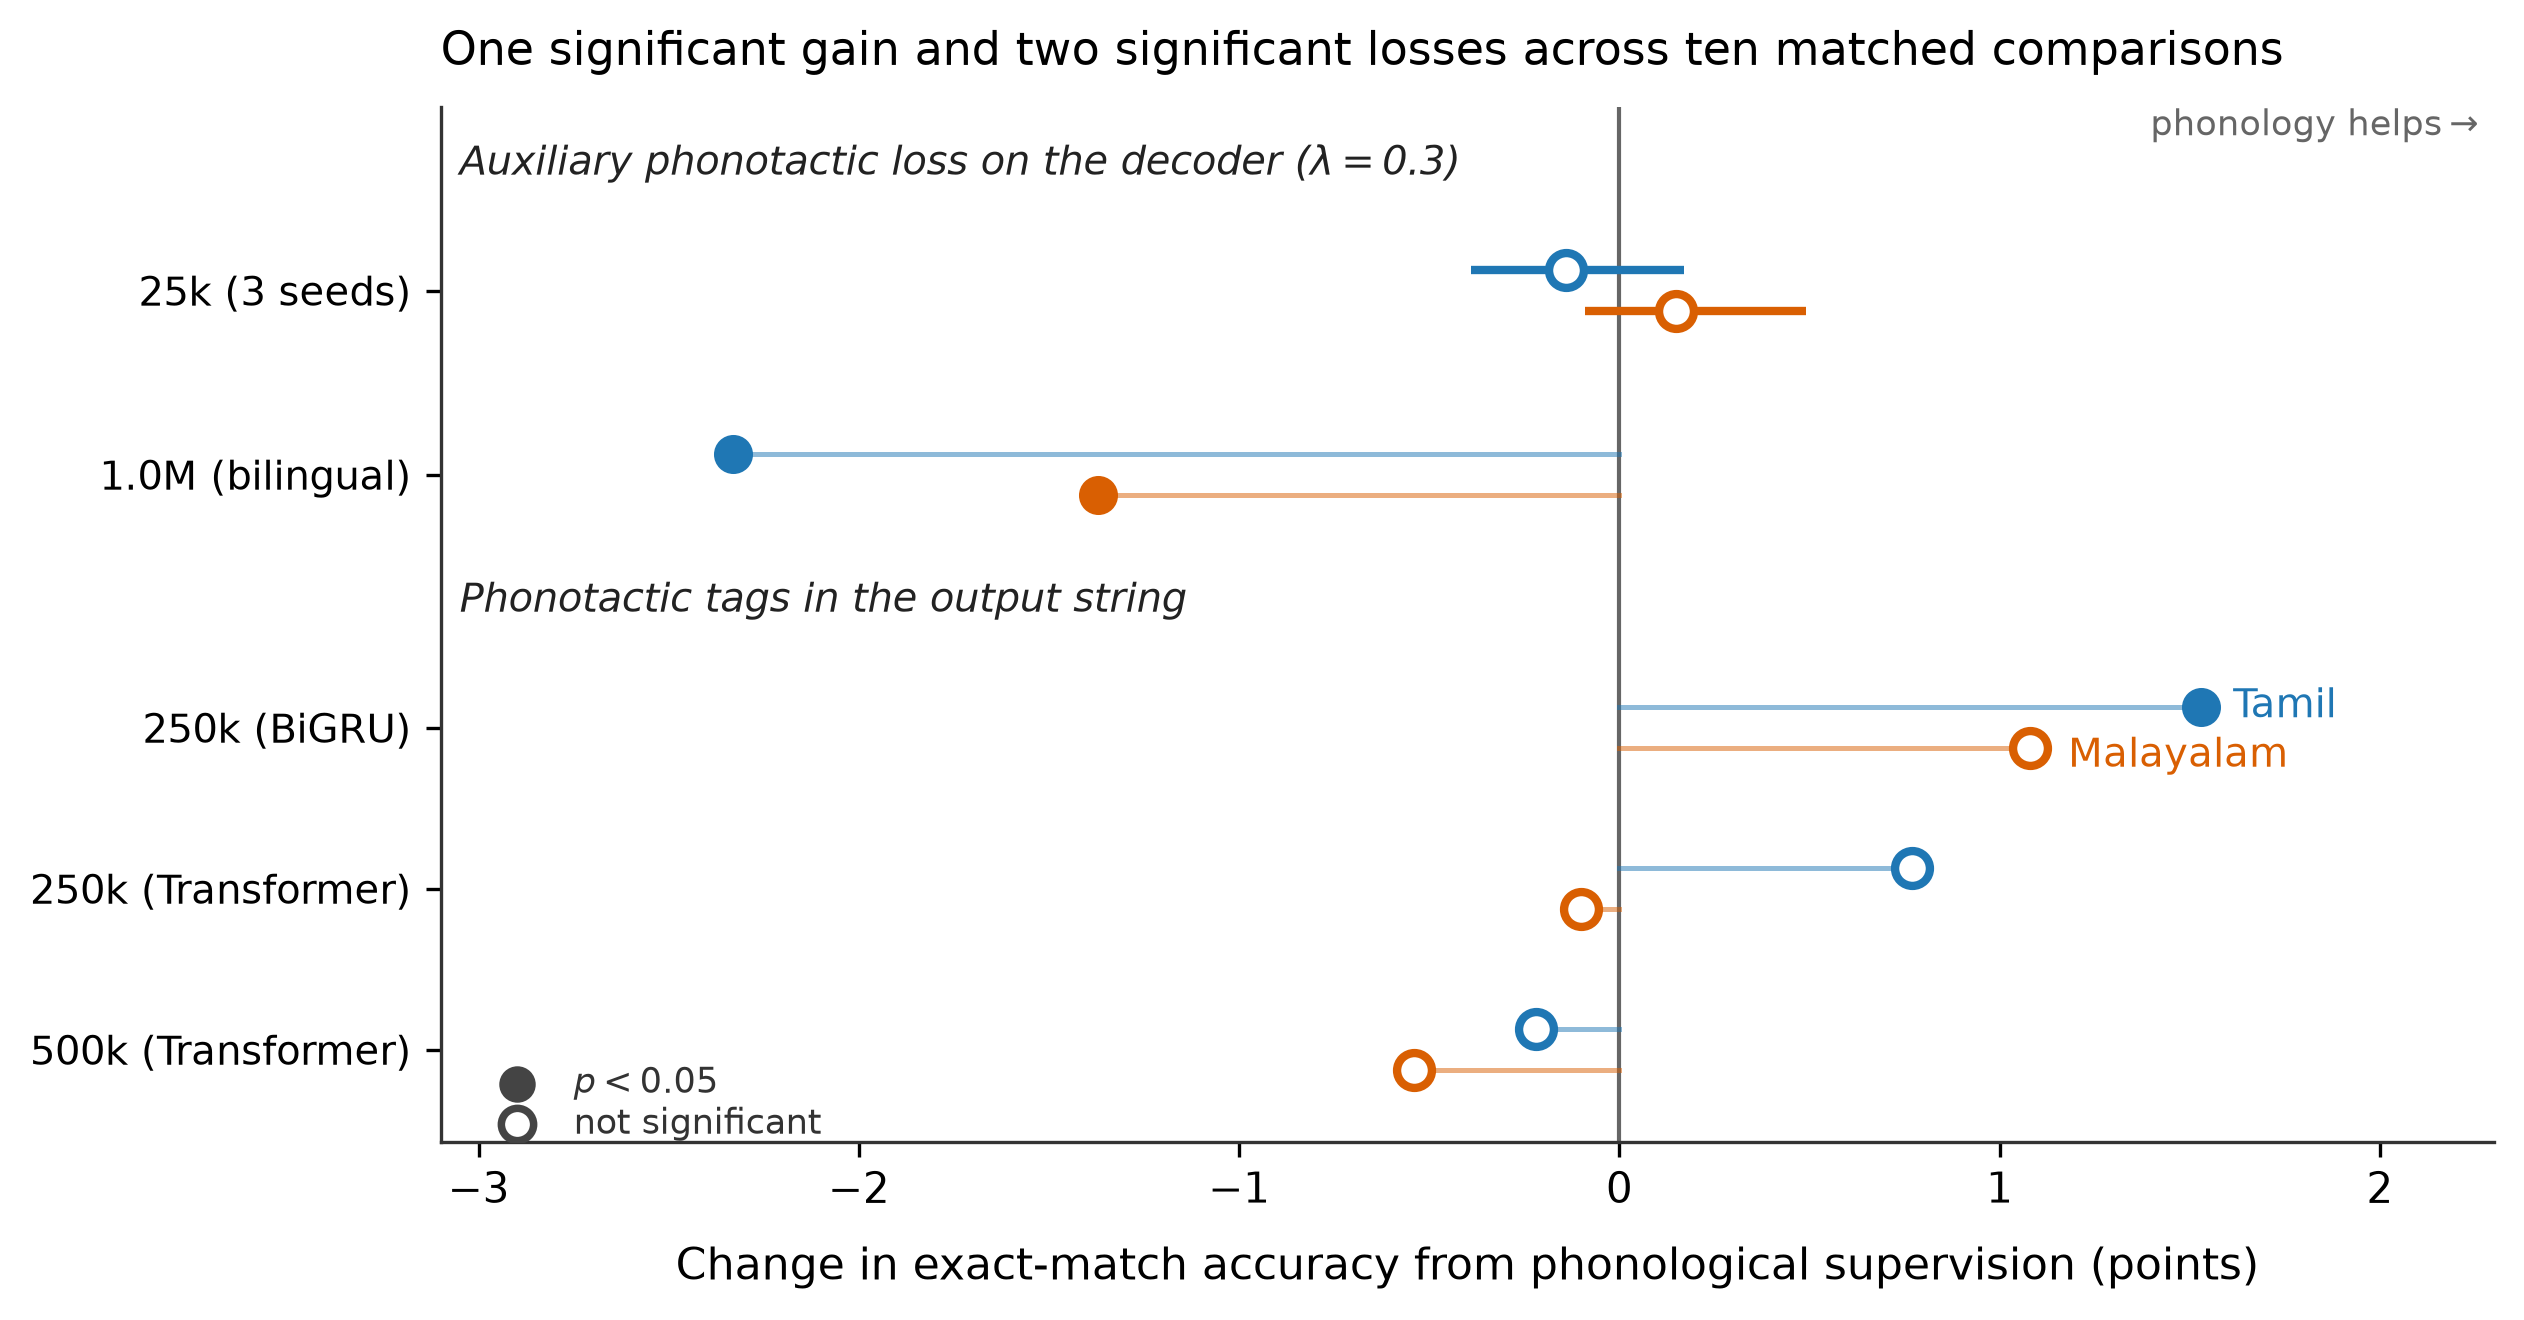
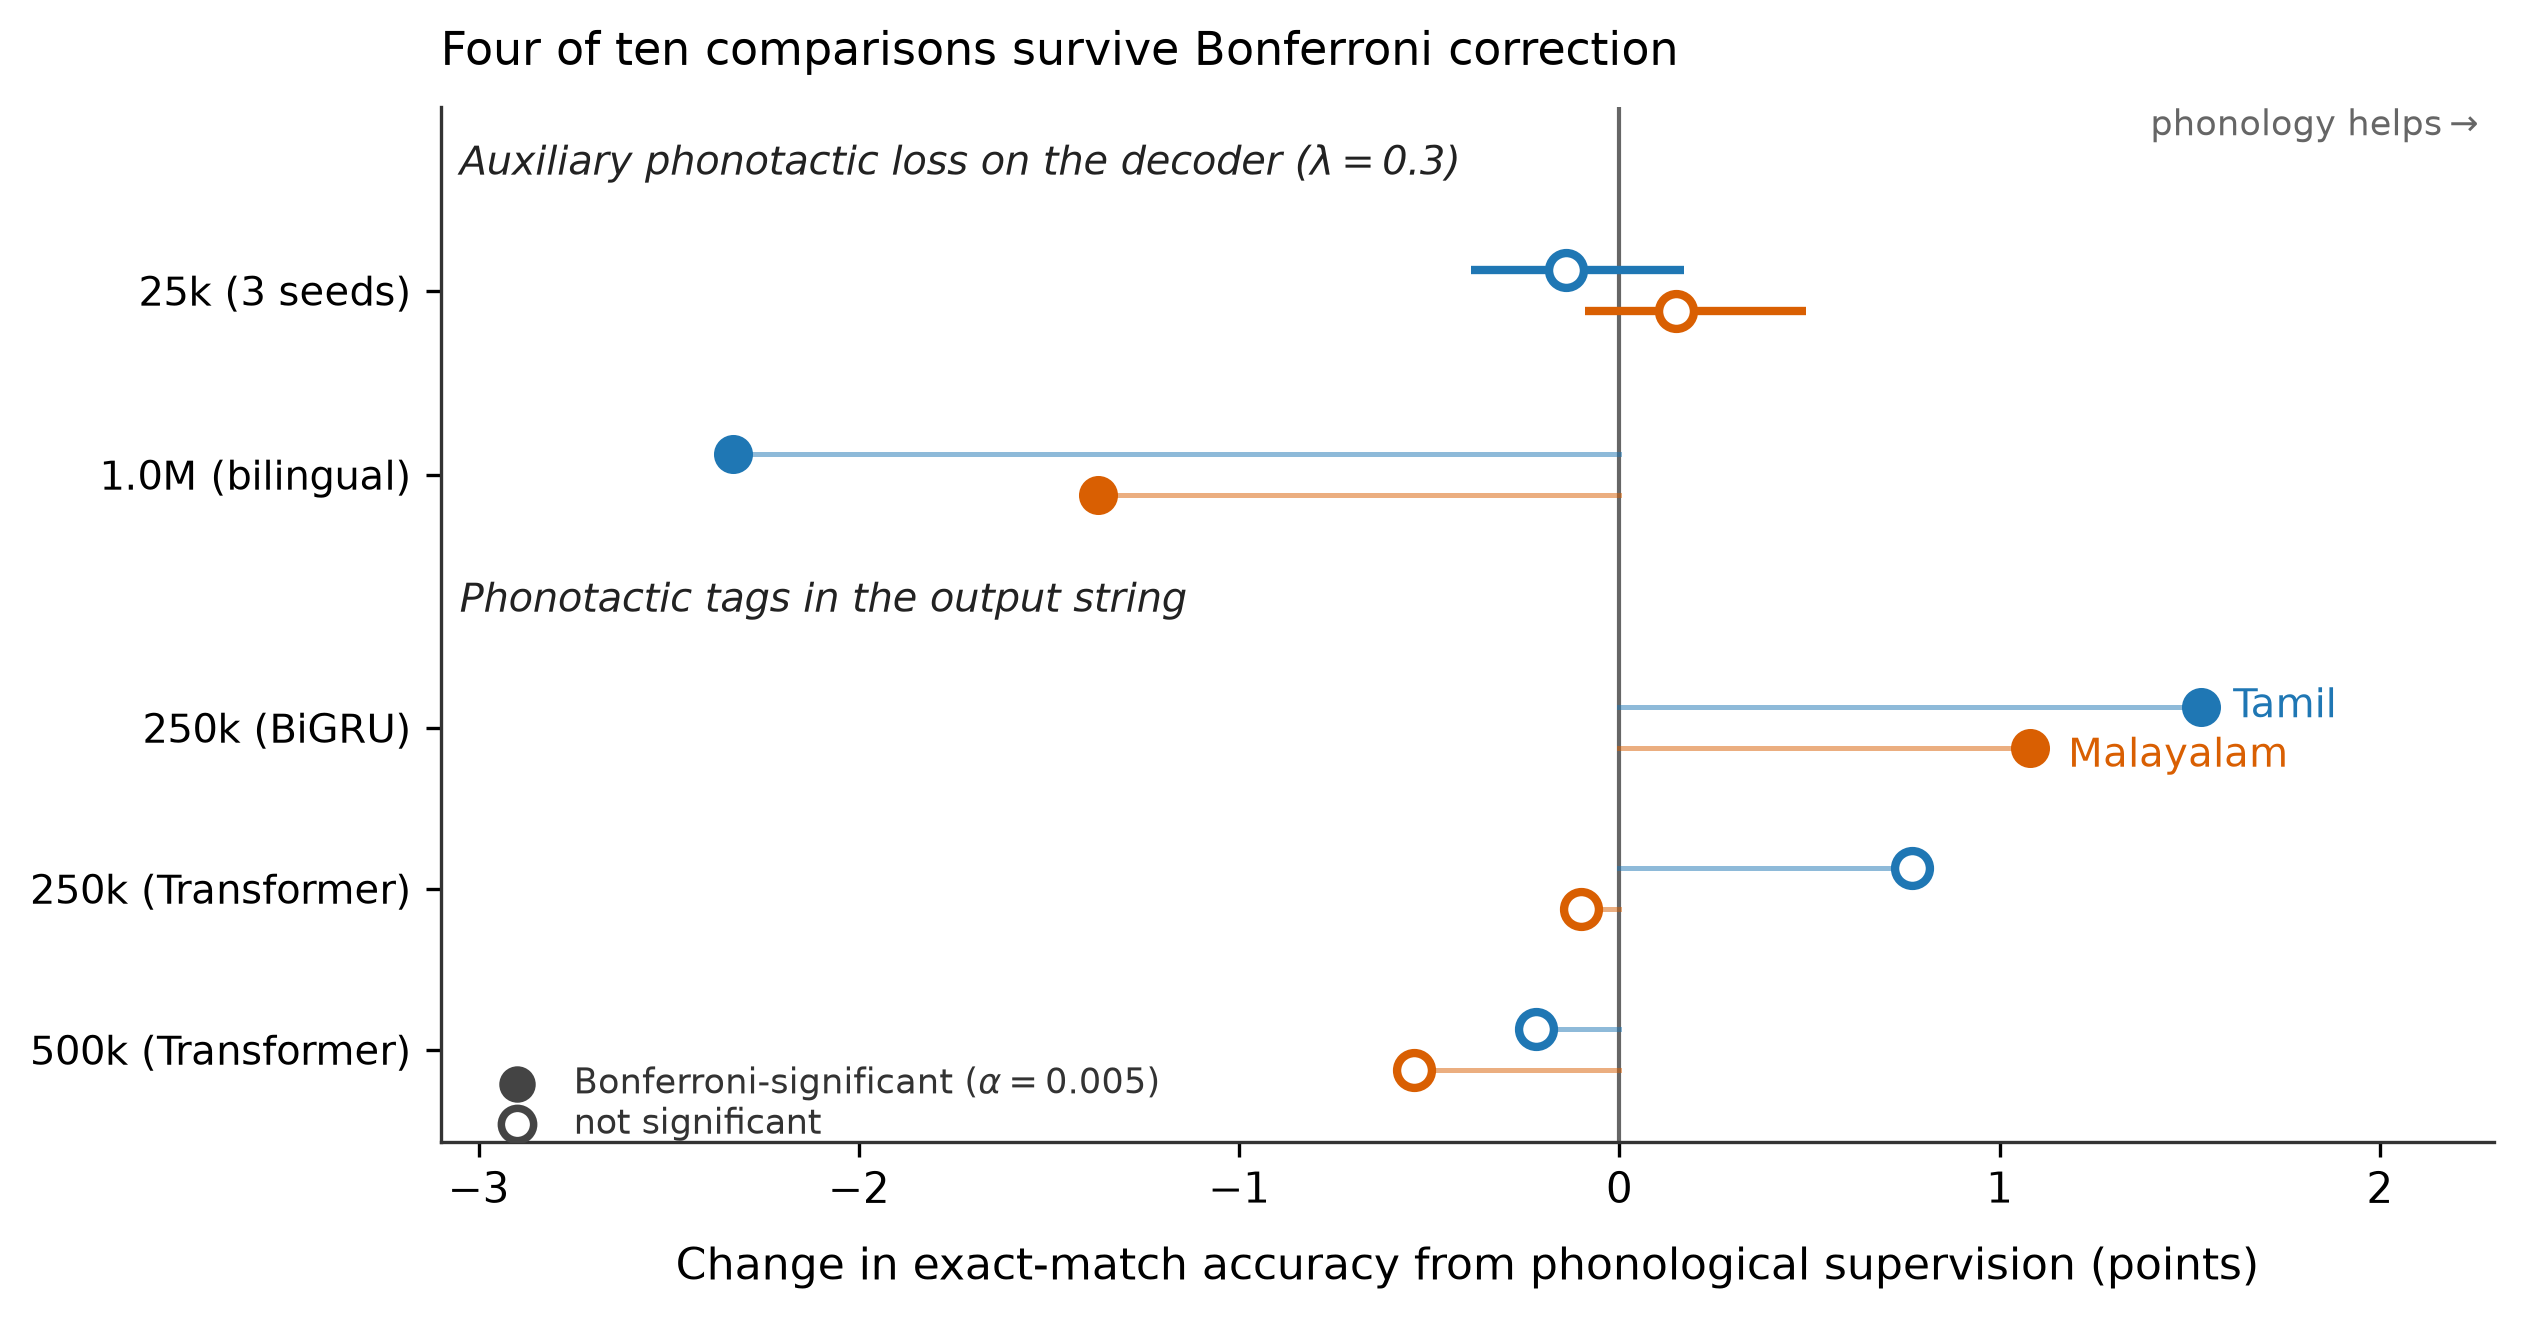
chore(figures): update forest plot with Bonferroni correction and sync to submissions

Changed region(s): [[0.1854, 0.0311, 0.8962, 0.0621], [0.2163, 0.8076, 0.4635, 0.8386], [0.7726, 0.5591, 0.8344, 0.5902]]

diff --git a/src/plot_effects_forest_plot.py b/src/plot_effects_forest_plot.py
@@ -40,6 +40,8 @@ mal_color = '#d95f02'  # Rust orange
 # 25k deltas: Tam runs = [-0.20, +0.17, -0.39] -> mean -0.14, min -0.39, max +0.17 -> err = [0.25, 0.31]
 # Mal runs = [+0.04, +0.49, -0.09] -> mean +0.15, min -0.09, max +0.49 -> err = [0.24, 0.34]
 
+ALPHA_BONF = 0.005  # m = 10 matched comparisons
+
 comparisons = [
     {
         "y": 7.8,
@@ -51,29 +53,29 @@ comparisons = [
     {
         "y": 6.2,
         "name": "1.0M (bilingual)",
-        "tam": {"delta": -2.33, "p": 0.0003, "err": None},
-        "mal": {"delta": -1.37, "p": 0.0295, "err": None},
+        "tam": {"delta": -2.33, "p": 1.6e-14, "err": None},
+        "mal": {"delta": -1.37, "p": 1.1e-5, "err": None},
         "offset": 0.18
     },
     {
         "y": 4.0,
         "name": "250k (BiGRU)",
-        "tam": {"delta": 1.53, "p": 0.0183, "err": None},
-        "mal": {"delta": 1.08, "p": 0.0893, "err": None},
+        "tam": {"delta": 1.53, "p": 3.0e-6, "err": None},
+        "mal": {"delta": 1.08, "p": 0.0011, "err": None},
         "offset": 0.18
     },
     {
         "y": 2.6,
         "name": "250k (Transformer)",
-        "tam": {"delta": 0.77, "p": 0.2371, "err": None},
-        "mal": {"delta": -0.10, "p": 0.8689, "err": None},
+        "tam": {"delta": 0.77, "p": 0.017, "err": None},
+        "mal": {"delta": -0.10, "p": 0.77, "err": None},
         "offset": 0.18
     },
     {
         "y": 1.2,
         "name": "500k (Transformer)",
-        "tam": {"delta": -0.22, "p": 0.7358, "err": None},
-        "mal": {"delta": -0.54, "p": 0.3928, "err": None},
+        "tam": {"delta": -0.22, "p": 0.49, "err": None},
+        "mal": {"delta": -0.54, "p": 0.087, "err": None},
         "offset": 0.18
     },
 ]
@@ -91,7 +93,7 @@ for item in comparisons:
     ax.plot([0, dt], [yt, yt], color=tam_color, alpha=0.5, lw=1.2, zorder=2)
     if err_t is not None:
         ax.errorbar(dt, yt, xerr=err_t, color=tam_color, fmt='none', capsize=0, lw=2.0, zorder=3)
-    if pt < 0.05:
+    if pt < ALPHA_BONF:
         ax.scatter(dt, yt, color=tam_color, s=70, zorder=4)
     else:
         ax.scatter(dt, yt, facecolor='white', edgecolor=tam_color, lw=2.0, s=70, zorder=4)
@@ -104,7 +106,7 @@ for item in comparisons:
     ax.plot([0, dm], [ym, ym], color=mal_color, alpha=0.5, lw=1.2, zorder=2)
     if err_m is not None:
         ax.errorbar(dm, ym, xerr=err_m, color=mal_color, fmt='none', capsize=0, lw=2.0, zorder=3)
-    if pm < 0.05:
+    if pm < ALPHA_BONF:
         ax.scatter(dm, ym, color=mal_color, s=70, zorder=4)
     else:
         ax.scatter(dm, ym, facecolor='white', edgecolor=mal_color, lw=2.0, s=70, zorder=4)
@@ -132,13 +134,13 @@ ax.set_ylim(0.4, 9.4)
 ax.set_xlabel("Change in exact-match accuracy from phonological supervision (points)", fontsize=10.5, labelpad=8)
 
 # Title & Directional prompt
-ax.set_title("One significant gain and two significant losses across ten matched comparisons", fontsize=11, loc='left', pad=10, fontweight='medium')
+ax.set_title("Four of ten comparisons survive Bonferroni correction", fontsize=11, loc='left', pad=10, fontweight='medium')
 ax.text(2.28, 9.15, r"$\text{phonology helps} \rightarrow$", fontsize=8.5, color='#666666', ha='right')
 
 # Custom Legend in bottom left
 legend_y = 1.0
 ax.scatter(-2.9, 0.9, color='#444444', s=60, zorder=5)
-ax.text(-2.75, 0.9, r"$p < 0.05$", fontsize=8.5, va='center', color='#333333')
+ax.text(-2.75, 0.9, r"Bonferroni-significant ($\alpha = 0.005$)", fontsize=8.5, va='center', color='#333333')
 ax.scatter(-2.9, 0.55, facecolor='white', edgecolor='#444444', lw=1.8, s=60, zorder=5)
 ax.text(-2.75, 0.55, "not significant", fontsize=8.5, va='center', color='#333333')
 
@@ -150,13 +152,19 @@ ax.spines['bottom'].set_color('#333333')
 
 plt.tight_layout()
 
-# Save figure to docs/revised2 and artifacts
-out_docs = os.path.join(os.path.dirname(os.path.dirname(os.path.abspath(__file__))), "docs", "revised2", "fig_effects_corrected.png")
-out_scaling = os.path.join(os.path.dirname(os.path.dirname(os.path.abspath(__file__))), "docs", "revised2", "fig_scaling_corrected.png")
-out_artifacts = os.path.join(os.path.dirname(os.path.dirname(os.path.abspath(__file__))), "artifacts", "fig_effects_corrected.png")
+# Save figure to all destinations
+base_valimeli = os.path.dirname(os.path.dirname(os.path.abspath(__file__)))
+out_paths = [
+    os.path.join(base_valimeli, "docs", "revised2", "fig_effects_corrected.png"),
+    os.path.join(base_valimeli, "docs", "revised2", "fig_scaling_corrected.png"),
+    os.path.join(base_valimeli, "artifacts", "fig_effects_corrected.png"),
+    "/Users/slakshmanan/Playspace/Gemini/aayvu-private/paper_a_internals/submissions/tacl/fig_effects_corrected.png",
+    "/Users/slakshmanan/Playspace/Gemini/aayvu-private/paper_a_internals/submissions/shared/fig_effects_corrected.png",
+    "/Users/slakshmanan/Playspace/Gemini/aayvu-private/paper_a_internals/submissions/arr/fig_effects_corrected.png"
+]
 
-plt.savefig(out_docs, bbox_inches='tight')
-plt.savefig(out_scaling, bbox_inches='tight')
-plt.savefig(out_artifacts, bbox_inches='tight')
-print(f"Saved: {out_docs}")
-print(f"Saved: {out_scaling}")
+for p in out_paths:
+    os.makedirs(os.path.dirname(p), exist_ok=True)
+    plt.savefig(p, bbox_inches='tight')
+    print(f"Saved: {p}")
+
